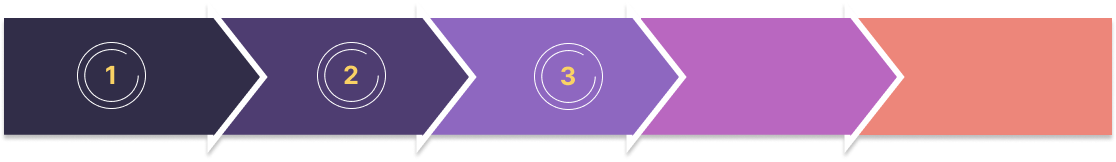
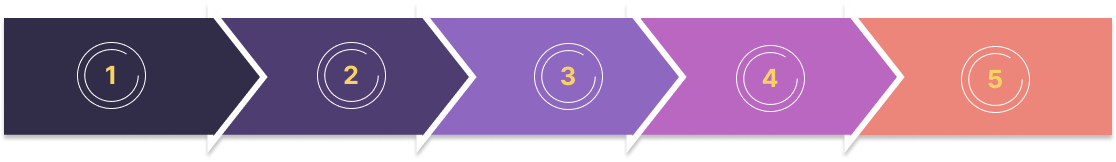
add block use

diff --git a/index.html b/index.html
@@ -342,21 +342,110 @@
         </section>
         <section class="result">
             <div class="container">
-                <div class="result-title">
-                    <div class="result-title__block">
+                <div class="result-title row justify-content-center">
+                    <div class="result-title__block col-6">
                         <h2 class="result-title__title">Всего за 3 дня</h2>
                         <hr class="result-title__line">
                     </div>
-                    <div class="result-title__img">
+                    <div class="result-title__img col-2">
                         <img src="assets/эл_4 1.png" alt="">
                     </div>
-
                 </div>
-                <p>вы обретете уверенность в своей СИЛЕ и СВЕРХспособностях и поверите, что способны на большее:</p>
-                <div><img src="assets/Stages.png" alt=""></div>
-
+                <p class="result-text">вы обретете уверенность в своей СИЛЕ и СВЕРХспособностях и поверите, что способны
+                    на большее:</p>
+                <div class="row"><img src="assets/Stages.png" alt=""></div>
+                <div class="row">
+                    <div class="stages-text col-2">
+                        <p>Научитесь считывать информацию
+                            из настоящего, прошлого и будущего</p>
+                    </div>
+                    <div class="stages-text col-2 offset-1">
+                        <p>Узнаете, какой у вас основной канал экстрасенсорного
+                            восприятия и считывания информации</p>
+                    </div>
+                    <div class="stages-text col-2">
+                        <p>Сможете наполняться Энергией Жизни за 3 минуты через особую альфа-практику</p>
+                    </div>
+                    <div class="stages-text col-2">
+                        <p>Поймёте, как убрать денежные блоки и вредоносные воздействия со стороны (которые есть у 90%
+                            людей в мире)</p>
+                    </div>
+                    <div class="stages-text col-2">
+                        <p>Рассчитаете,
+                            есть ли у вас сверх-
+                            способности по дате вашего рождения</p>
+                    </div>
+                </div>
             </div>
         </section>
+        <section class="use container">
+            <h2 class="use-title">Как изменится ваша жизнь, если вы начнёте применять полученные знания:</h2>
+            <hr class="use-line">
+            <div class="use-choose row">
+                <div class="use-choose__before col-6">
+                    <p>До практикума</p>
+                </div>
+                <div class="use-choose__after col-6">
+                    <p>После практикума</p>
+                </div>
+            </div>
+            <div class="use-choose__items row">
+                <div class="use-item col-xl-6 col-md-6">
+                    <img class="img-fluid" src="assets/zavyazanyya-vochy-3119 1.jpg" alt="">
+                    <p>У вас не развита интуиция и поэтому вы: не разбираетесь в людях, постоянно выбираете "не тех"
+                        мужчин, не можете уловить
+                        нужный момент или предчувствовать грядущие неприятности</p>
+                </div>
+                <div class="use-item col-xl-6 col-md-6">
+                    <img class="img-fluid" src="assets/zavyazanyya-vochy-3119 1 (1).jpg" alt="">
+                    <p>Вы прокачали свою интуицию и благодаря ей мгновенно "считываете" людей, можете предчувствовать
+                        опасность, понимаете сны
+                        и всегда оказываетесь в нужное время в нужном месте</p>
+                </div>
+                <div class="use-item col-xl-6 col-md-6">
+                    <img class="img-fluid" src="assets/zavyazanyya-vochy-3119 1 (2).jpg" alt="">
+                    <p>Вы страдаете от постоянного упадка сил, вам сложно концентрироваться, работа даётся с трудом, у
+                        вас постоянно что-то
+                        болит, а простая пробежка кажется крайне изнурительной задачей</p>
+                </div>
+                <div class="use-item col-xl-6 col-md-6">
+                    <img class="img-fluid" src="assets/zavyazanyya-vochy-3119 1 (3).jpg" alt="">
+                    <p>Вы излучаете позитив, бодрость и жизенную энергию! Вы чувствуете себя активнее, здоровее и
+                        успеваете делать в разы
+                        больше. Вам хватает терпения и мотивации доводить дела до конца</p>
+                </div>
+                <div class="use-item col-xl-6 col-md-6">
+                    <img class="img-fluid" src="assets/zavyazanyya-vochy-3119 1 (4).jpg" alt="">
+                    <p>Вы не знаете, как решить ворох накопившихся проблем и считаете, что для этого нужны либо большие
+                        связи, либо большие
+                        деньги</p>
+                </div>
+                <div class="use-item col-xl-6 col-md-6">
+                    <img class="img-fluid" src="assets/zavyazanyya-vochy-3119 1 (5).jpg" alt="">
+                    <p>Вы обнаружили в себе скрытые способности и ресурсы, о которых даже не подозревали и теперь
+                        используете их для успешного
+                        решения сложных ситуаций у себя и близких</p>
+                </div>
+                <div class="use-item col-xl-6 col-md-6">
+                    <img class="img-fluid" src="assets/zavyazanyya-vochy-3119 1 (6).jpg" alt="">
+                    <p>Вы считаете себя невезучим человеком: хорошие должности, выигрыши, выгодные знакомства, удачные
+                        возможности проходят
+                        мимо вас и всегда достаются кому-то другому</p>
+                </div>
+                <div class="use-item col-xl-6 col-md-6">
+                    <img class="img-fluid" src="assets/zavyazanyya-vochy-3119 1 (7).jpg" alt="">
+                    <p>Вы ощущаете себя настоящим любимчиком фортуны: события складываются как нельзя лучше, вы
+                        притягиваете в свою жизнь
+                        нужные возможности, важных людей и большие деньги</p>
+                </div>
+
+            </div>
+            <div class="row">
+                <button>Иду на практикум!</button>
+            </div>
+        </section>
+
+
     </main>
     <script src="https://cdn.jsdelivr.net/npm/bootstrap@5.1.1/dist/js/bootstrap.bundle.min.js"
         integrity="sha384-/bQdsTh/da6pkI1MST/rWKFNjaCP5gBSY4sEBT38Q/9RBh9AH40zEOg7Hlq2THRZ"

diff --git a/style/style.css b/style/style.css
@@ -3,6 +3,7 @@
 @import "offer.css";
 @import "program.css";
 @import "reasons.css";
+@import "result.css";
 @import "normalize.css";
 @font-face {
   font-family: "Gilroy";
@@ -25,22 +26,18 @@
   font-weight: 900;
   src: local("Lato"), url("../fonts/Lato-Black.ttf") format("ttf");
 }
-.result-title {
-  display: flex;
-}
-.result-title__title {
-  font-family: Gilroy;
+@font-face {
+  font-family: "Mulish";
   font-style: normal;
-  font-weight: bold;
-  font-size: 36px;
-  line-height: 28px;
-  text-align: center;
-  text-transform: uppercase;
-  color: #320b61;
+  font-weight: 300;
+
+  src: local("Mulish"), url("../fonts/Mulish-Regular.woff2") format("woff2"),
+    url("../fonts/Mulish-Regular.ttf") format("ttf");
 }
-.result-title__line {
-  color: #e130e3;
-  width: 70px;
-  height: 0px;
-  border: 2px solid #e130e3;
+@font-face {
+  font-family: "Mulish";
+  font-style: normal;
+  font-weight: 700;
+  src: local("Mulish"), url("../fonts/Mulish-Bold.woff2") format("woff2"),
+    url("../fonts/Mulish-Bold.ttf") format("ttf");
 }
